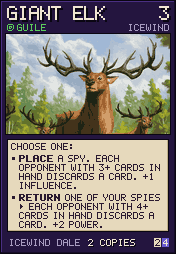
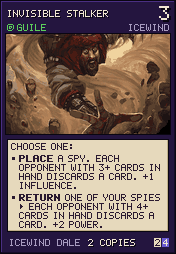
Stage NE-19: Icewind Dale — animals replaced by the owner's request: Giant Goat → Magmin, Giant Badger → Ettercap, Giant Elk → Invisible Stalker, Boar → Xorn, Cultist Fanatic → Skeleton (same ids and rules, D&D Beyond 2024 arts with backgrounds)

diff --git a/Claude outputs/new_era_handoff.md b/Claude outputs/new_era_handoff.md
@@ -121,7 +121,7 @@
    Демасия при извлечении (картинки 0000–0027): 0 Cursed Wanderer, 1 Battlefield Sergeant, 2 Vanguard Cavalry, 3 Captain, 4 Officer, 5 Bannerman, 6–27 карты Демасии, 28 Shyvana, 341 Sylas, 360 Lucian.
    Жетоны и вторые формы чемпионов лежат отдельно: ~318–330 (Hextech, Shimmer, Sapling, Tibbers, Valor, Eggnivia, Dragon Shyvana, Spider Elise, Cougar Nidalee, Mega Gnar…), 438–454 предметы (Aphelios, Ornn, осколки Riven), дальше Poro. Быстро найти — контакт-лист кусками по 40 картинок (`art_contact.gd` на папку с копиями).
    Сколько копий: белые кружки внизу карты; у карт стоимостью 6+ (чемпионы) всегда 1. Обычно 13 обычных + 10 чемпионов = 45.
-2. **Найти арты.** Во встроенном браузере открыть dndbeyond.com/monsters/… и через javascript_tool сделать fetch(`/monsters?filter-search=Имя`). Затем fetch страницы монстра (каждую в своём try/catch: закрытая страница роняет fetch) и взять src из `<img ... class="monster-image">` — общая регулярка по `avatars/` ловит картинки оформления сайта. Скрипт запускать фоном (`window.R = …`), результат забирать через 40 с: у javascript_tool лимит 45 с. Скачивать curl'ом с `-A "Mozilla/5.0"`. Монстры из платных книг отдают `locked` — брать других. jpeg почти всегда с фоном, png бывает и с фоном, и без. Проверять контакт-листом с пурпурной подложкой (прозрачное видно сразу). Почти всегда лучше версии **2024 года** (id `5195xxx`/`4904xxx`): у них чаще сцена с фоном, у 2014 года — вырезанные фигуры. **Но и у 2024 года много вырезанных фигур** (на AVERNUS 8 из 23: Imp, Quasit, Dretch, Pit Fiend, Gladiator, Hobgoblin Warrior…), поэтому имена существ закладывать в код только ПОСЛЕ контакт-листа артов — иначе потом переименовывать. Узкие картинки (например, 377x1000) часто без фигуры в кадре. Перед выбором проверить, что имени нет в `cards.json` (у всех колод, включая Siege/Mercenaries). Свободные монстры с фоном, ещё не занятые (на 2026-10-14, после NE-17): Magmin, Invisible Stalker, Ettercap, Gorgon, Cockatrice, Ankheg, Dryad, Dragon Turtle, Giant Toad (2024 jpeg), Sprite (узкий), Hyena, Goat, Tough (узкий), Cultist (узкий), Commoner (сцена без героя). Великаны, Werewolf, Guard, Bulette, Centaur Trooper, Cultist Fanatic теперь заняты Icewind Dale. Кандидаты Icewind Dale — `cards/freljord/cand*` (не в git). Скачанные кандидаты лежат в `cards/avernus/cand*` (не в git).
+2. **Найти арты.** Во встроенном браузере открыть dndbeyond.com/monsters/… и через javascript_tool сделать fetch(`/monsters?filter-search=Имя`). Затем fetch страницы монстра (каждую в своём try/catch: закрытая страница роняет fetch) и взять src из `<img ... class="monster-image">` — общая регулярка по `avatars/` ловит картинки оформления сайта. Скрипт запускать фоном (`window.R = …`), результат забирать через 40 с: у javascript_tool лимит 45 с. Скачивать curl'ом с `-A "Mozilla/5.0"`. Монстры из платных книг отдают `locked` — брать других. jpeg почти всегда с фоном, png бывает и с фоном, и без. Проверять контакт-листом с пурпурной подложкой (прозрачное видно сразу). Почти всегда лучше версии **2024 года** (id `5195xxx`/`4904xxx`): у них чаще сцена с фоном, у 2014 года — вырезанные фигуры. **Но и у 2024 года много вырезанных фигур** (на AVERNUS 8 из 23: Imp, Quasit, Dretch, Pit Fiend, Gladiator, Hobgoblin Warrior…), поэтому имена существ закладывать в код только ПОСЛЕ контакт-листа артов — иначе потом переименовывать. Узкие картинки (например, 377x1000) часто без фигуры в кадре. Перед выбором проверить, что имени нет в `cards.json` (у всех колод, включая Siege/Mercenaries). Свободные монстры с фоном, ещё не занятые (на 2026-10-14, после NE-17): Gorgon, Cockatrice, Ankheg, Dryad, Dragon Turtle, Giant Toad (2024 jpeg), Sprite (узкий), Zombie, Stone Giant (2024, сцена), Goblin Minion, Steam/Magma/Dust Mephit, Hyena, Goat, Tough (узкий), Cultist (узкий), Commoner (сцена без героя). Великаны, Werewolf, Guard, Bulette, Centaur Trooper, Cultist Fanatic теперь заняты Icewind Dale. Кандидаты Icewind Dale — `cards/freljord/cand*` (не в git). Скачанные кандидаты лежат в `cards/avernus/cand*` (не в git).
 3. **Положить данные.** Арты — в `cards/<колода>/`. Новые карты дописать в конец `cards.json` (следующий диапазон id, например 49100+), полуколоду — в `half_decks.json` с `"wip": true`, тип — для подписи. В `tools/pixel_cards.gd` добавить:
    - в `SINGLE_ART` — `id: ["папка/файл", Rect2i(окно арта)]`, пропорция 164:100;
    - в `MINI_FACE` — левый верхний угол выреза 52x53 в арте 164x100;
@@ -175,6 +175,7 @@
 
 ## Готово: Freljord → ICEWIND DALE (NE-11 `551d69a`, NE-12 `aebd453`, NE-12b `6b6417c`, NE-17)
 **NE-18:** по выбору владельца 40 карт / 20 уникальных — убраны Guard 49600, Giant Owl 49610, Giant Hyena 49612 (в cards.json остались), Giant Goat и Winter Wolf — по 3.
+**NE-19:** владелец заменил животных: Giant Goat → Magmin, Giant Badger → Ettercap, Giant Elk → Invisible Stalker, Boar → Xorn, Cultist Fanatic → Skeleton (id и правила те же; константы в freljord_cards.gd переименованы).
 Всё по колоде — в `Claude outputs/new_era_freljord.md` (таблица, толкования).
 - Карты 49600–49618, 49620 и 49634–49636 (45 копий). Тип `ICEWIND`, ключ `freljord` (wip), эффекты `core/cards/freljord_cards.gd`, тест `test_icewind_deck`, фон ледяной голубой. **NE-17:** по решению владельца убраны Roc, Stone Giant, Giant Ape и всё, что с ними связано (Roc Egg, 10 предметов Masterwork, знаки на доске `state.wards`, стопка FRONT, `state.front`, `state.masterwork`; id 49619, 49621–49633 удалены). Вместо них Extra Champions мода: Gragas → Pirate Captain (49634), Aurora → Blink Dog (49635), Olaf → Young White Dragon (49636).
 - **Frostbite** — `FreljordCards.on_discard` из всех путей сброса (DiscardCardEffect, ForceDiscard.VictimDiscard, ScryCards, _CycleHand, _DiscardDrawn, RemoveSelfFromPlay). Решение владельца: сброс руки в конце хода Frostbite не вызывает. Новые карты со сбросом из руки тоже должны звать on_discard.

diff --git a/Claude outputs/new_era_freljord.md b/Claude outputs/new_era_freljord.md
@@ -10,15 +10,15 @@
 | id | Существо | Карта мода | Цена | Аспект | Копий | VP |
 |---|---|---|---|---|---|---|
 | 49600 | Guard | Avarosan Sentry | 2 | MALICE | 2 | 1/2 |
-| 49601 | Cultist Fanatic | Bone Scryer | 5 | GUILE | 3 | 3/5 |
+| 49601 | Skeleton | Bone Scryer | 5 | GUILE | 3 | 3/5 |
 | 49602 | Werewolf | Ruthless Raider | 4 | MALICE | 3 | 2/4 |
-| 49603 | Giant Goat | Lorekeeper | 2 | CONQUEST | 2 | 1/3 |
+| 49603 | Magmin | Lorekeeper | 2 | CONQUEST | 3 | 1/3 |
 | 49604 | Centaur Trooper | Icevale Archer | 3 | MALICE | 3 | 2/4 |
 | 49605 | Bulette | Troll Scout | 3 | CONQUEST | 3 | 2/4 |
 | 49606 | Ice Mephit | Rimetusk Shaman | 4 | AMBITION | 3 | 2/4 |
-| 49607 | Giant Elk | Valhir's Prophet | 3 | GUILE | 2 | 2/4 |
-| 49608 | Giant Badger | Avarosan Trapper | 2 | GUILE | 3 | 1/3 |
-| 49609 | Boar | Avarosan Hearthguard | 3 | AMBITION | 4 | 1/3 |
+| 49607 | Invisible Stalker | Valhir's Prophet | 3 | GUILE | 2 | 2/4 |
+| 49608 | Ettercap | Avarosan Trapper | 2 | GUILE | 3 | 1/3 |
+| 49609 | Xorn | Avarosan Hearthguard | 3 | AMBITION | 4 | 1/3 |
 | 49610 | Giant Owl | Starlit Seer | 2 | GUILE | 3 | 1/3 |
 | 49611 | Winter Wolf | Murkwolf Shaman | 3 | CONQUEST | 2 | 1/3 |
 | 49612 | Giant Hyena | Scarmother | 3 | CONQUEST | 2 | 2/4 |
@@ -37,12 +37,14 @@
 
 **2026-10-14 (NE-17):** владелец убрал Roc (Anivia), Stone Giant (Ornn) и Giant Ape (Trundle) со всеми их механиками (Glacial Storm, Ice Pillar, лёд, Roc Egg, колода Masterwork и 10 предметов, стопка FRONT); id 49619, 49621–49633 удалены из cards.json. Вместо них — чемпионы Extra Champions мода: Gragas, Aurora, Olaf.
 
+**2026-10-15 (NE-19):** владелец попросил вместо животных существ поинтереснее: Giant Goat → Magmin, Giant Badger → Ettercap, Giant Elk → Invisible Stalker, Boar → Xorn, Cultist Fanatic → Skeleton (id и правила те же).
+
 Арты — D&D Beyond 2024 (у всех есть фон), лежат в `cards/freljord/`. Кандидаты `cards/freljord/cand*` — не в git.
 
 ## Толкования
 - **Frostbite** срабатывает при сбросе из руки эффектом, в свой или чужой ход. **Сброс руки в конце хода — нет** (решение владельца, 2026-10-14). Все пути сброса зовут `FreljordCards.on_discard`; новые карты со сбросом тоже должны его звать.
 - Valor → MALICE; Cursed Wanderer → Insane Outcast; Execute → Devour.
-- Cultist Fanatic (Bone Scryer): «сброс с верха колоды» = сброс при Scry, действует до конца хода.
+- Skeleton (Bone Scryer): «сброс с верха колоды» = сброс при Scry, действует до конца хода.
 - Giant Hyena (Scarmother): «another player discarded» — любой сброс эффектом не текущим игроком.
 - Hill Giant (Braum): отменяет сброс и Insane Outcast от соперника; «discard down to N» отменяется целиком. Принудительного Devour от соперника в игре нет — эта часть не нужна.
 - Cloud Giant (Lissandra): «+2 Power и карта» — за КАЖДОГО возвращённого шпиона.
